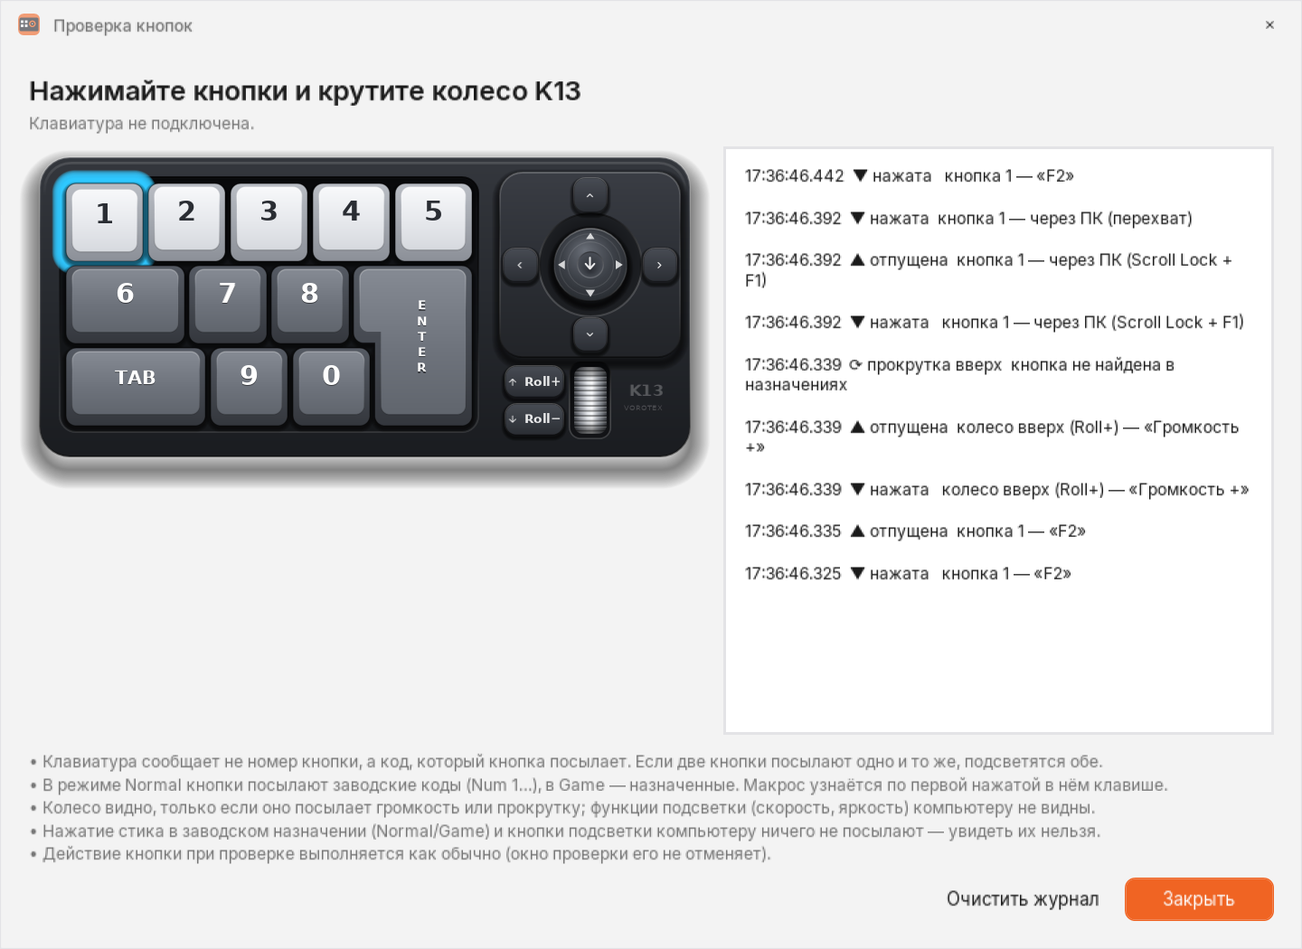
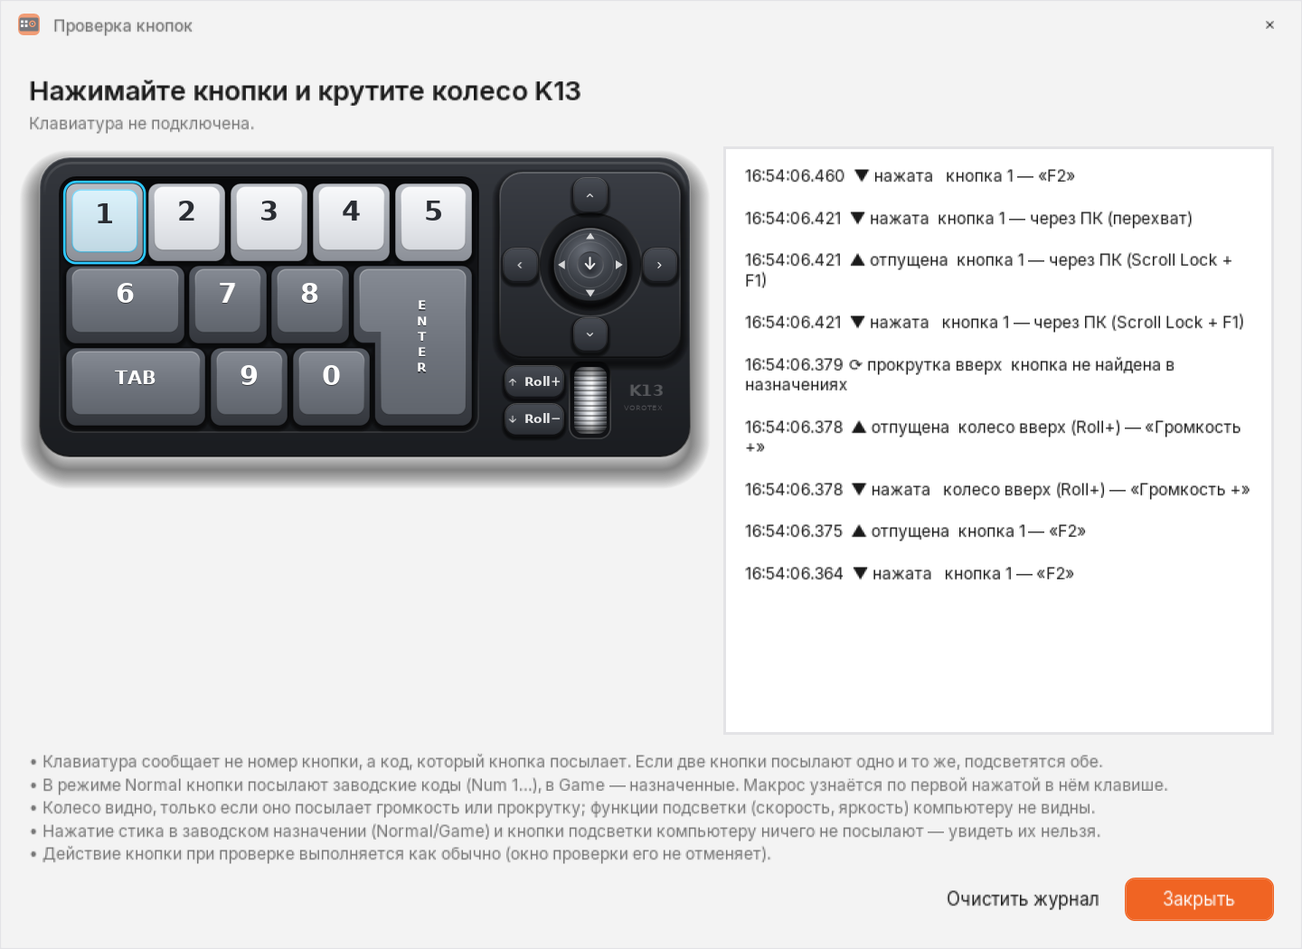
1.3.6: crisp selection ring hugging each control (no glow spilling under neighbours), face tint, z-order; README screenshots

diff --git a/src/K13.Studio/DeviceView.cs b/src/K13.Studio/DeviceView.cs
@@ -63,6 +63,8 @@ public sealed class DeviceView : Viewbox
     {
         >= 12 and <= 15 => "джойстик " + Legend(id),
         StickPress => "нажатие стика",
+        JoystickKnob => "джойстик",
+        WheelBody => "колесо",
         RollUp => "колесо вверх (Roll+)",
         RollDown => "колесо вниз (Roll−)",
         17 => "скрытая кнопка 17",
@@ -84,6 +86,40 @@ public sealed class DeviceView : Viewbox
         public TextBlock? Sub;
         public TranslateTransform? Lift;
         public UIElement? HoverLayer;
+        /// <summary>1.3.6: cyan tint of the control's own face (moves with the cap), shown with <see cref="Sel"/>.</summary>
+        public UIElement? Tint;
+        public Action? Enter, Leave;
+        public bool Raise = true;   // brought above neighbours while selected/pressed (not the stick ring: the press button sits on it)
+    }
+
+    // smoke: hover / selection states without a mouse, and how far the selection reaches outside the control
+    internal void DemoHover(int id, bool on)
+    {
+        if (!_parts.TryGetValue(id, out var p)) return;
+        (on ? p.Enter : p.Leave)?.Invoke();
+        // the end state of the 130 ms animations, for a still picture
+        if (p.HoverLayer != null) { p.HoverLayer.BeginAnimation(OpacityProperty, null); p.HoverLayer.Opacity = on ? 1 : 0; }
+        if (p.Lift != null) { p.Lift.BeginAnimation(TranslateTransform.YProperty, null); p.Lift.Y = on ? -2 : 0; }
+    }
+    internal void DemoSelect(int id) { foreach (var (k, p) in _parts) { SetSelected(p, k == id); if (k == id) { p.Sel.BeginAnimation(OpacityProperty, null); p.Sel.Opacity = 1; } } }
+    internal IEnumerable<int> PartIds => _parts.Keys;
+    /// <summary>Extra reach (device units) of the selected state over the unselected one: max over the four sides.</summary>
+    internal double SelectionOverflow(int id)
+    {
+        var p = _parts[id];
+        DemoSelect(id); UpdateLayout();
+        // everything that appears with the selection (ring, tint and any halo made of them) vs the control's own box
+        var box = new Rect(0, 0, p.Root.ActualWidth > 0 ? p.Root.ActualWidth : p.Root.Width, p.Root.ActualHeight > 0 ? p.Root.ActualHeight : p.Root.Height);
+        Rect b = Rect.Empty;
+        foreach (var e in new[] { p.Sel, p.Tint }.OfType<UIElement>())
+        {
+            var d = VisualTreeHelper.GetDescendantBounds(e);
+            if (d.IsEmpty) continue;
+            b.Union(e.TransformToAncestor(p.Root).TransformBounds(d));
+        }
+        DemoSelect(-1);
+        // a stroke's descendant bounds include half the pen — that is the real painted extent
+        return b.IsEmpty ? 0 : new[] { box.Left - b.Left, b.Right - box.Right, box.Top - b.Top, b.Bottom - box.Bottom }.Max();
     }
 
     private readonly Canvas _canvas = new() { Width = W, Height = H };
@@ -209,6 +245,8 @@ public sealed class DeviceView : Viewbox
         cap.Children.Add(top);
         var hover = new Path { Data = topGeo, Fill = new SolidColorBrush(C(light ? 0x30FFFFFFu : 0x22FFFFFFu)), Opacity = 0 };
         cap.Children.Add(hover);
+        var tint = TintPath(topGeo, light);
+        cap.Children.Add(tint);
 
         // legend
         var face = topGeo.Bounds;
@@ -248,10 +286,12 @@ public sealed class DeviceView : Viewbox
         cap.Children.Add(badge);
         root.Children.Add(cap);
 
-        var sel = SelectionPath(Shape(rects, o, -3, -3, -3, -3, 10));
-        root.Children.Insert(0, sel);
+        // 1.3.6: a crisp 2-unit ring hugging the key's own outline (radius 8 → 9.25), inside the 4-unit gap between keys —
+        // no blurred glow under the neighbours; above the key's own shadow, below the cap
+        var sel = SelectionPath(Shape(rects, o, -1.25, -1.25, -1.25, -1.25, 9.25));
+        root.Children.Insert(1, sel);
         _canvas.Children.Add(root);
-        Register(id, new Part { Root = root, Sel = sel, Badge = badge, Sub = sub, Lift = lift, HoverLayer = hover });
+        Register(id, new Part { Root = root, Sel = sel, Badge = badge, Sub = sub, Lift = lift, HoverLayer = hover, Tint = tint });
     }
 
     private static Ellipse Badge() => new()
@@ -261,8 +301,14 @@ public sealed class DeviceView : Viewbox
 
     private static Path SelectionPath(Geometry g) => new()
     {
-        Data = g, Stroke = new SolidColorBrush(Cyan), StrokeThickness = 2.4, Fill = new SolidColorBrush(C(0x182EC8FF)), Visibility = Visibility.Collapsed, IsHitTestVisible = false,
-        Effect = new DropShadowEffect { BlurRadius = 16, ShadowDepth = 0, Color = Cyan, Opacity = 1 },
+        Data = g, Stroke = new SolidColorBrush(Cyan), StrokeThickness = 2, StrokeLineJoin = PenLineJoin.Round, Visibility = Visibility.Collapsed, IsHitTestVisible = false,
+    };
+
+    /// <summary>1.3.6: selected face — a light cyan wash and a thin inner cyan edge, clipped to the face itself.</summary>
+    private static Path TintPath(Geometry face, bool light) => new()
+    {
+        Data = face, Fill = new SolidColorBrush(C(light ? 0x222EC8FFu : 0x242EC8FFu)), Stroke = new SolidColorBrush(C(0x902EC8FF)), StrokeThickness = 1,
+        Visibility = Visibility.Collapsed, IsHitTestVisible = false,
     };
 
     // ───────────────────────────── joystick module
@@ -280,8 +326,7 @@ public sealed class DeviceView : Viewbox
         // knob well and outer ring (ring area = "joystick" click target)
         var ringRoot = new Canvas { Width = 92, Height = 92, Background = Brushes.Transparent };
         Canvas.SetLeft(ringRoot, StickC.X - 46); Canvas.SetTop(ringRoot, StickC.Y - 46);
-        var ringSel = new Ellipse { Width = 92, Height = 92, Stroke = new SolidColorBrush(Cyan), StrokeThickness = 2.2, Visibility = Visibility.Collapsed, IsHitTestVisible = false,
-            Effect = new DropShadowEffect { BlurRadius = 14, ShadowDepth = 0, Color = Cyan } };
+        var ringSel = new Ellipse { Width = 92, Height = 92, Stroke = new SolidColorBrush(Cyan), StrokeThickness = 2, Visibility = Visibility.Collapsed, IsHitTestVisible = false };
         ringRoot.Children.Add(ringSel);
         var well = new Ellipse { Width = 84, Height = 84, Fill = new RadialGradientBrush(C(0xFF0A0B0D), C(0xFF1D1F23)) { GradientOrigin = new Point(0.5, 0.35) },
             Stroke = V((0, 0x90000000), (1, 0x26FFFFFF)), StrokeThickness = 1.5 };
@@ -315,15 +360,17 @@ public sealed class DeviceView : Viewbox
         var hoverRing = new Ellipse { Width = 60, Height = 60, Fill = new SolidColorBrush(C(0x18FFFFFF)), Opacity = 0 };
         Canvas.SetLeft(hoverRing, 16); Canvas.SetTop(hoverRing, 16);
         knobGrp.Children.Add(hoverRing);
+        var knobTint = new Ellipse { Width = 60, Height = 60, Fill = new SolidColorBrush(C(0x282EC8FF)), Stroke = new SolidColorBrush(C(0x902EC8FF)), StrokeThickness = 1, Visibility = Visibility.Collapsed, IsHitTestVisible = false };
+        Canvas.SetLeft(knobTint, 16); Canvas.SetTop(knobTint, 16);
+        knobGrp.Children.Add(knobTint);
         ringRoot.Children.Add(knobGrp);
         _canvas.Children.Add(ringRoot);
-        Register(JoystickKnob, new Part { Root = ringRoot, Sel = ringSel, Badge = new Ellipse(), Lift = lift, HoverLayer = hoverRing });
+        Register(JoystickKnob, new Part { Root = ringRoot, Sel = ringSel, Badge = new Ellipse(), Lift = lift, HoverLayer = hoverRing, Tint = knobTint, Raise = false });
 
         // centre = stick press (column 16)
         var press = new Canvas { Width = 30, Height = 30, Background = Brushes.Transparent };
         Canvas.SetLeft(press, StickC.X - 15); Canvas.SetTop(press, StickC.Y - 15);
-        var pSel = new Ellipse { Width = 30, Height = 30, Stroke = new SolidColorBrush(Cyan), StrokeThickness = 2.2, Fill = new SolidColorBrush(C(0x302EC8FF)), Visibility = Visibility.Collapsed, IsHitTestVisible = false,
-            Effect = new DropShadowEffect { BlurRadius = 12, ShadowDepth = 0, Color = Cyan } };
+        var pSel = new Ellipse { Width = 30, Height = 30, Stroke = new SolidColorBrush(Cyan), StrokeThickness = 2, Fill = new SolidColorBrush(C(0x302EC8FF)), Visibility = Visibility.Collapsed, IsHitTestVisible = false };
         var dish = new Ellipse { Width = 22, Height = 22, Fill = new RadialGradientBrush(C(0xFF2C2F35), C(0xFF4A4E56)) { GradientOrigin = new Point(0.5, 0.75) },
             Stroke = V((0, 0x70000000), (1, 0x30FFFFFF)), StrokeThickness = 1 };
         Canvas.SetLeft(dish, 4); Canvas.SetTop(dish, 4);
@@ -346,9 +393,10 @@ public sealed class DeviceView : Viewbox
     {
         var root = new Canvas { Width = r.Width, Height = r.Height, Background = Brushes.Transparent };
         Canvas.SetLeft(root, r.X); Canvas.SetTop(root, r.Y);
-        var sel = new Rectangle { Width = r.Width + 6, Height = r.Height + 6, RadiusX = 11, RadiusY = 11, Stroke = new SolidColorBrush(Cyan), StrokeThickness = 2.2,
-            Fill = new SolidColorBrush(C(0x202EC8FF)), Visibility = Visibility.Collapsed, IsHitTestVisible = false, Effect = new DropShadowEffect { BlurRadius = 12, ShadowDepth = 0, Color = Cyan } };
-        Canvas.SetLeft(sel, -3); Canvas.SetTop(sel, -3);
+        // 1.3.6: ring 2 units wide right outside the chip (Roll+ / Roll− are 4 units apart), no glow
+        var sel = new Rectangle { Width = r.Width + 4, Height = r.Height + 4, RadiusX = 11, RadiusY = 11, Stroke = new SolidColorBrush(Cyan), StrokeThickness = 2,
+            Visibility = Visibility.Collapsed, IsHitTestVisible = false };
+        Canvas.SetLeft(sel, -2); Canvas.SetTop(sel, -2);
         var lift = new TranslateTransform();
         var face = new Border
         {
@@ -358,11 +406,13 @@ public sealed class DeviceView : Viewbox
             Child = content, IsHitTestVisible = false,
         };
         var hover = new Border { Width = r.Width, Height = r.Height, CornerRadius = new CornerRadius(9), Background = new SolidColorBrush(C(0x22FFFFFF)), Opacity = 0, RenderTransform = lift, IsHitTestVisible = false };
+        var tint = new Border { Width = r.Width, Height = r.Height, CornerRadius = new CornerRadius(9), Background = new SolidColorBrush(C(0x302EC8FF)), BorderBrush = new SolidColorBrush(C(0x902EC8FF)),
+            BorderThickness = new Thickness(1), RenderTransform = lift, IsHitTestVisible = false, Visibility = Visibility.Collapsed };
         var badge = Badge();
         Canvas.SetLeft(badge, r.Width - 8); Canvas.SetTop(badge, 1);
-        root.Children.Add(sel); root.Children.Add(face); root.Children.Add(hover); root.Children.Add(badge);
+        root.Children.Add(sel); root.Children.Add(face); root.Children.Add(hover); root.Children.Add(tint); root.Children.Add(badge);
         _canvas.Children.Add(root);
-        Register(id, new Part { Root = root, Sel = sel, Badge = badge, Lift = lift, HoverLayer = hover });
+        Register(id, new Part { Root = root, Sel = sel, Badge = badge, Lift = lift, HoverLayer = hover, Tint = tint });
     }
 
     // ───────────────────────────── wheel
@@ -374,9 +424,8 @@ public sealed class DeviceView : Viewbox
         const double W = 26, H = 54;
         var root = new Canvas { Width = W, Height = H, Background = Brushes.Transparent };
         Canvas.SetLeft(root, 438); Canvas.SetTop(root, 177);
-        var sel = new Rectangle { Width = W + 6, Height = H + 6, RadiusX = 9, RadiusY = 9, Stroke = new SolidColorBrush(Cyan), StrokeThickness = 2.2, Visibility = Visibility.Collapsed, IsHitTestVisible = false,
-            Effect = new DropShadowEffect { BlurRadius = 14, ShadowDepth = 0, Color = Cyan } };
-        Canvas.SetLeft(sel, -3); Canvas.SetTop(sel, -3);
+        var sel = new Rectangle { Width = W + 4, Height = H + 4, RadiusX = 9, RadiusY = 9, Stroke = new SolidColorBrush(Cyan), StrokeThickness = 2, Visibility = Visibility.Collapsed, IsHitTestVisible = false };
+        Canvas.SetLeft(sel, -2); Canvas.SetTop(sel, -2);   // 1.3.6: inside the 4-unit housing rim, no glow
         root.Children.Add(sel);
         var cyl = new Canvas { Width = W, Height = H, Clip = new RectangleGeometry(new Rect(0, 0, W, H), 7, 7), IsHitTestVisible = false };
         cyl.Children.Add(new Rectangle { Width = W, Height = H, Fill = Hz((0, 0xFF3A3D42), (0.18, 0xFF8C9097), (0.42, 0xFFE4E7EB), (0.55, 0xFFF6F7F9), (0.75, 0xFF9DA1A8), (1, 0xFF3C3F44)) });
@@ -394,8 +443,10 @@ public sealed class DeviceView : Viewbox
         root.Children.Add(cyl);
         var hover = new Rectangle { Width = W, Height = H, RadiusX = 7, RadiusY = 7, Fill = new SolidColorBrush(C(0x26FFFFFF)), Opacity = 0, IsHitTestVisible = false };
         root.Children.Add(hover);
+        var wTint = new Rectangle { Width = W, Height = H, RadiusX = 7, RadiusY = 7, Fill = new SolidColorBrush(C(0x382EC8FF)), Visibility = Visibility.Collapsed, IsHitTestVisible = false };
+        root.Children.Add(wTint);
         _canvas.Children.Add(root);
-        Register(WheelBody, new Part { Root = root, Sel = sel, Badge = new Ellipse(), HoverLayer = hover });
+        Register(WheelBody, new Part { Root = root, Sel = sel, Badge = new Ellipse(), HoverLayer = hover, Tint = wTint });
 
         foreach (var (id, glyph, text) in new[] { (RollUp, "\uE74A", "Roll+"), (RollDown, "\uE74B", "Roll−") })
         {
@@ -438,18 +489,20 @@ public sealed class DeviceView : Viewbox
         if (!_interactive) { p.Root.IsHitTestVisible = false; return; }
         p.Root.Cursor = Cursors.Hand;
         var dur = TimeSpan.FromMilliseconds(130);
-        p.Root.MouseEnter += (_, _) =>
+        p.Enter = () =>
         {
             p.Lift?.BeginAnimation(TranslateTransform.YProperty, new DoubleAnimation(-2, dur) { EasingFunction = new CubicEase() });
             p.HoverLayer?.BeginAnimation(OpacityProperty, new DoubleAnimation(1, dur));
             Hovered?.Invoke(id);
         };
-        p.Root.MouseLeave += (_, _) =>
+        p.Leave = () =>
         {
             p.Lift?.BeginAnimation(TranslateTransform.YProperty, new DoubleAnimation(0, dur) { EasingFunction = new CubicEase() });
             p.HoverLayer?.BeginAnimation(OpacityProperty, new DoubleAnimation(0, dur));
             Hovered?.Invoke(null);
         };
+        p.Root.MouseEnter += (_, _) => p.Enter();
+        p.Root.MouseLeave += (_, _) => p.Leave();
         p.Root.MouseLeftButtonDown += (_, e) => { e.Handled = true; p.Lift?.BeginAnimation(TranslateTransform.YProperty, new DoubleAnimation(1, TimeSpan.FromMilliseconds(60))); };
         p.Root.MouseLeftButtonUp += (_, e) =>
         {
@@ -483,6 +536,8 @@ public sealed class DeviceView : Viewbox
         p.Sel.BeginAnimation(OpacityProperty, null);
         p.Sel.Opacity = 1;
         p.Sel.Visibility = on ? Visibility.Visible : Visibility.Collapsed;
+        if (p.Tint != null) p.Tint.Visibility = p.Sel.Visibility;
+        if (p.Raise) Panel.SetZIndex(p.Root, on ? 1 : 0);
         if (p.Lift != null) { p.Lift.BeginAnimation(TranslateTransform.YProperty, null); p.Lift.Y = on ? 2 : 0; }
     }
 
@@ -494,8 +549,10 @@ public sealed class DeviceView : Viewbox
     {
         if (sel == (p.Sel.Visibility == Visibility.Visible)) return;
         p.Sel.Visibility = sel ? Visibility.Visible : Visibility.Collapsed;
-        if (sel)
-            p.Sel.BeginAnimation(OpacityProperty, new DoubleAnimation(1, 0.55, TimeSpan.FromMilliseconds(1100)) { AutoReverse = true, RepeatBehavior = RepeatBehavior.Forever, EasingFunction = new SineEase() });
+        if (p.Tint != null) p.Tint.Visibility = p.Sel.Visibility;
+        if (p.Raise) Panel.SetZIndex(p.Root, sel ? 1 : 0);   // 1.3.6: the selected control above its neighbours' shadows
+        if (sel)   // 1.3.6: a calm breath of the ring only (was 1 → 0.55 on a blurred glow)
+            p.Sel.BeginAnimation(OpacityProperty, new DoubleAnimation(1, 0.7, TimeSpan.FromMilliseconds(1400)) { AutoReverse = true, RepeatBehavior = RepeatBehavior.Forever, EasingFunction = new SineEase() });
         else p.Sel.BeginAnimation(OpacityProperty, null);
     }
 

diff --git a/src/K13.Studio/SmokeTest.cs b/src/K13.Studio/SmokeTest.cs
@@ -706,6 +706,27 @@ public static class SmokeTest
                 if (w.DemoTesterIsK12View || !MainWindow.KeyboardCannotPress(t13)) throw new InvalidOperationException("окно проверки K13: схема/кнопки не те");
                 w.DemoTester(false); t13.Close();
             });
+            // 1.3.6: selection / press / hover on the keypad diagram — confined to the control (no glow spilling under neighbours)
+            Step($"{th}: 1.3.6 выделение на схеме", () =>
+            {
+                var dir = Path.Combine(folder, "selection"); Directory.CreateDirectory(dir);
+                var dv = new DeviceView();
+                var host = new Window { Content = dv, Width = 560, Height = 300, Left = -32000, Top = -32000, ShowActivated = false, ShowInTaskbar = false, WindowStyle = WindowStyle.None,
+                    WindowStartupLocation = WindowStartupLocation.Manual, Background = th == "light" ? new SolidColorBrush(Color.FromRgb(0xF3, 0xF4, 0xF6)) : new SolidColorBrush(Color.FromRgb(0x1C, 0x1D, 0x21)) };
+                host.Show(); Pump();
+                var lines = new List<string>();
+                foreach (var id in dv.PartIds.OrderBy(i => i)) lines.Add($"{id}\t{DeviceView.ControlName(id)}\t{dv.SelectionOverflow(id):0.0}");
+                File.WriteAllLines(Path.Combine(dir, $"overflow-{th}.txt"), lines);
+                var spill = dv.PartIds.Where(i => dv.SelectionOverflow(i) > 2.5).Select(DeviceView.ControlName).ToList();
+                if (spill.Count > 0) throw new InvalidOperationException("выделение выходит за кнопку больше чем на 2,5: " + string.Join(", ", spill));
+                void Snap(string name) { Pump(); dv.UpdateLayout(); ShotElement(dv, Path.Combine(dir, $"{th}-{name}.png"), 2); }
+                foreach (var (id, name) in new[] { (5, "key6"), (8, "enter"), (9, "tab"), (11, "key0"), (0, "key1"), (15, "chip-up"), (DeviceView.StickPress, "stick-press"),
+                                                    (DeviceView.JoystickKnob, "stick-ring"), (DeviceView.RollUp, "roll-up"), (DeviceView.WheelBody, "wheel") })
+                { dv.DemoSelect(id); Snap("sel-" + name); }
+                dv.DemoSelect(5); dv.DemoHover(6, true); Snap("sel-key6-hover-key7"); dv.DemoHover(6, false);
+                dv.DemoSelect(-1); dv.SetPressed(5, true); dv.SetPressed(8, true); Snap("pressed-key6-enter"); dv.ClearPressed();
+                host.Close();
+            });
             // 1.3.4: read-only model check on connect — no cached K13 image and no automatic writes unless the keypad is a K13
             Step($"{th}: 1.3.4 проверка модели при подключении", () =>
             {
@@ -999,6 +1020,15 @@ public static class SmokeTest
     }
 
     /// <summary>1.3.0: the main window as PNG (×1.5, like the README screenshots).</summary>
+    private static void ShotElement(FrameworkElement e, string path, double sc)
+    {
+        var rtb = new System.Windows.Media.Imaging.RenderTargetBitmap((int)Math.Ceiling(e.ActualWidth * sc), (int)Math.Ceiling(e.ActualHeight * sc), 96 * sc, 96 * sc, PixelFormats.Pbgra32);
+        rtb.Render(e);
+        var enc = new System.Windows.Media.Imaging.PngBitmapEncoder();
+        enc.Frames.Add(System.Windows.Media.Imaging.BitmapFrame.Create(rtb));
+        using var fs = File.Create(path); enc.Save(fs);
+    }
+
     private static void Shot(Window w, string path)
     {
         Pump(); w.UpdateLayout();

diff --git a/README.md b/README.md
@@ -2,7 +2,7 @@
 
 Своя программа для макропада **VOROTEX K13** (USB 30FA:2350) вместо родной: понятная настройка кнопок, стика, колеса, подсветки и макросов, кольцо действий у курсора и профили. Windows 10/11, WPF / .NET 8: установщик или один переносной exe-файл.
 
-Текущая версия: **1.3.0** · **[⬇ Скачать](https://github.com/lle1ya/vorotex-k13-studio/releases/latest)**: `VorotexK13Studio-v1.3.0-setup.exe` (установщик, без прав администратора) или `VorotexK13Studio-v1.3.0.exe` (один файл, без установки). Программа раз в день проверяет, нет ли новой версии, и по кнопке «Скачать и обновить» сама обновляется (после подтверждения; выключается в ⋯). Контрольные суммы файлов — `SHA256SUMS.txt` в каждом выпуске.
+Текущая версия: **1.3.6** · **[⬇ Скачать](https://github.com/lle1ya/vorotex-k13-studio/releases/latest)**: `VorotexK13Studio-v1.3.6-setup.exe` (установщик, без прав администратора) или `VorotexK13Studio-v1.3.6.exe` (один файл, без установки). Программа раз в день проверяет, нет ли новой версии, и по кнопке «Скачать и обновить» сама обновляется (после подтверждения; выключается в ⋯). Контрольные суммы файлов — `SHA256SUMS.txt` в каждом выпуске.
 
 ## Скриншоты
 
@@ -49,10 +49,20 @@ dotnet publish src/K13.Studio -c Release -o out/publish   # single-file, self-co
 
 ## История изменений
 
+### 1.3.6 — аккуратное выделение кнопок на схеме
+- Выбранная кнопка больше не «светится» размытым ореолом, который заходил под соседние кнопки. Теперь это чёткая голубая рамка 2 px точно по форме кнопки (с её скруглением, в зазоре между кнопками) и лёгкая голубая заливка самой кнопки. Так же выглядят ENTER, TAB, 0, направления и центр стика, кольцо стика, Roll± и колесо, а в «Проверке кнопок» — нажатая кнопка.
+- Выбранная кнопка рисуется поверх теней соседей; пульсация рамки стала спокойнее. Наведение мыши — как раньше (светлая заливка и подъём кнопки).
+- Скриншоты «Кнопки» и «Проверка кнопок» обновлены. Тесты: 552 автотеста, `--smoke-test` — 435 шагов (проверка: выделение не выходит за кнопку больше чем на 2,5 px).
+
+<details>
+<summary>1.3.5</summary>
+
 ### 1.3.5 — срочное исправление: клавиатура снова печатает при запущенной программе
 - В 1.3.4 проверка модели при подключении не завершала сеанс обмена, и K13 и K12 переставали печатать, пока не переподключить USB (не помогал и выход из программы). Теперь проверка, как и все остальные чтения, всегда заканчивается полным завершением сеанса (`07 18 11 / 07 18 00 / 07 20`), в том числе при ошибке. При подключении подсветка может один раз мигнуть.
 - Если сеанс всё же остался незавершённым (например, ошибка связи), программа повторяет завершение при следующем опросе и при выходе. Подробности — PROTOCOL §47.
 - Тесты: 552 автотеста (+15), `--smoke-test` — 433 шага.
+
+</details>
 
 <details>
 <summary>1.3.4</summary>
